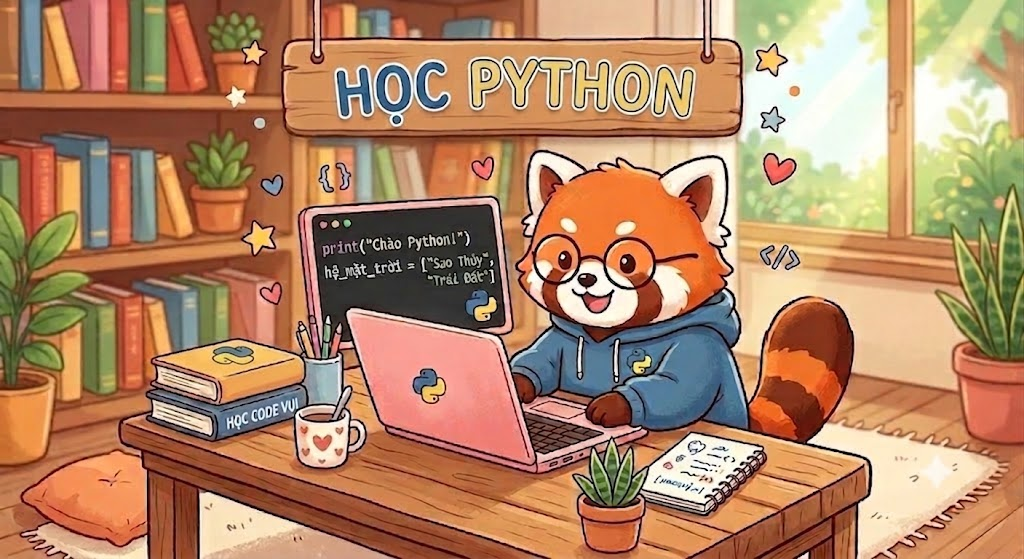
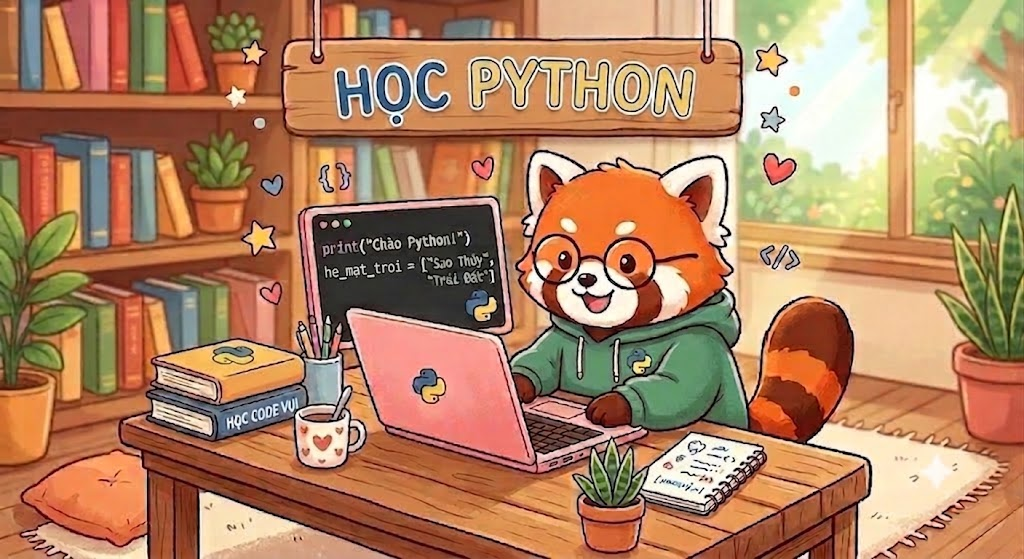
Improve game output scrolling

Changed region(s): [[0.5, 0.517, 0.75, 0.7907], [0.3125, 0.4562, 0.4062, 0.517], [0.6875, 0.8515, 0.7188, 0.8819]]

diff --git a/src/content/_template/game-template-type2.ts b/src/content/_template/game-template-type2.ts
@@ -119,9 +119,10 @@ const buildLayout = () => `
       font-size: 0.75rem; 
       color: #374151; 
       max-height: 150px; 
-      overflow-y: auto; 
-      white-space: pre-wrap; 
-      word-break: break-word;
+      overflow: auto;
+      white-space: pre;
+      word-break: normal;
+      overflow-wrap: normal;
       background: #f8fafc;
       border: 1px solid #e2e8f0;
     }
@@ -132,15 +133,15 @@ const buildLayout = () => `
     }
     
     /* Test Case Table */
-    .testcase-table { margin-top: 1rem; display: none; }
+    .testcase-table { margin-top: 1rem; display: none; max-width: 100%; overflow-x: auto; }
     .testcase-table.visible { display: block; }
     .testcase-table h3 { font-size: 1rem; font-weight: 600; margin-bottom: 0.75rem; color: #1f2937; }
-    .testcase-table table { width: 100%; border-collapse: collapse; font-size: 0.8rem; }
+    .testcase-table table { width: max-content; min-width: 100%; table-layout: auto; border-collapse: collapse; font-size: 0.8rem; }
     .testcase-table th, .testcase-table td { padding: 0.5rem 0.75rem; border: 1px solid #e2e8f0; text-align: left; }
     .testcase-table th { background: #f1f5f9; font-weight: 600; color: #475569; }
     .testcase-table .pass { color: #10b981; font-weight: 600; }
     .testcase-table .fail { color: #ef4444; font-weight: 600; }
-    .testcase-table .input, .testcase-table .output { font-family: 'JetBrains Mono', monospace; font-size: 0.75rem; white-space: pre-wrap; }
+    .testcase-table .input, .testcase-table .output { font-family: 'JetBrains Mono', monospace; font-size: 0.75rem; white-space: pre; word-break: normal; overflow-wrap: normal; }
     
     /* Floating Next Scene Button - Always visible at bottom right */
     .next-scene-btn { 

diff --git a/src/content/_template/game-template-type1.ts b/src/content/_template/game-template-type1.ts
@@ -117,9 +117,10 @@ const buildLayout = () => `
       font-size: 0.75rem; 
       color: #374151; 
       max-height: 150px; 
-      overflow-y: auto; 
-      white-space: pre-wrap; 
-      word-break: break-word;
+      overflow: auto;
+      white-space: pre;
+      word-break: normal;
+      overflow-wrap: normal;
       background: #f8fafc;
       border: 1px solid #e2e8f0;
     }
@@ -130,15 +131,15 @@ const buildLayout = () => `
     }
     
     /* Test Case Table */
-    .testcase-table { margin-top: 1rem; display: none; }
+    .testcase-table { margin-top: 1rem; display: none; max-width: 100%; overflow-x: auto; }
     .testcase-table.visible { display: block; }
     .testcase-table h3 { font-size: 1rem; font-weight: 600; margin-bottom: 0.75rem; color: #1f2937; }
-    .testcase-table table { width: 100%; border-collapse: collapse; font-size: 0.8rem; }
+    .testcase-table table { width: max-content; min-width: 100%; table-layout: auto; border-collapse: collapse; font-size: 0.8rem; }
     .testcase-table th, .testcase-table td { padding: 0.5rem 0.75rem; border: 1px solid #e2e8f0; text-align: left; }
     .testcase-table th { background: #f1f5f9; font-weight: 600; color: #475569; }
     .testcase-table .pass { color: #10b981; font-weight: 600; }
     .testcase-table .fail { color: #ef4444; font-weight: 600; }
-    .testcase-table .input, .testcase-table .output { font-family: 'JetBrains Mono', monospace; font-size: 0.75rem; }
+    .testcase-table .input, .testcase-table .output { font-family: 'JetBrains Mono', monospace; font-size: 0.75rem; white-space: pre; word-break: normal; overflow-wrap: normal; }
     
     /* Floating Next Scene Button - Always visible at bottom right */
     .next-scene-btn { 

diff --git a/src/lib/gameMetadata.ts b/src/lib/gameMetadata.ts
@@ -19,11 +19,18 @@ const normalizeTableText = (value: string) =>
     .replace(/\r/g, "\n");
 
 export const buildGameMetadataStyles = () => `
-  .game-description { color: #4b5563; line-height: 1.625; white-space: pre-line; margin: 0; }
-  .game-io-table-wrap { margin-top: 1rem; overflow-x: auto; border: 1px solid #dbeafe; border-radius: 0.75rem; background: #ffffff; }
-  .game-io-table { width: 100%; border-collapse: collapse; min-width: 320px; font-size: 0.875rem; }
+  .game-metadata .game-description,
+  .lesson-header .game-description {
+    margin: 0;
+    color: #334155;
+    font-size: 16px;
+    line-height: 1.65;
+    white-space: pre-line;
+  }
+  .game-io-table-wrap { max-width: 100%; margin-top: 1rem; overflow-x: auto; border: 1px solid #dbeafe; border-radius: 0.75rem; background: #ffffff; }
+  .game-io-table { width: max-content; min-width: 100%; border-collapse: collapse; font-size: 0.875rem; }
   .game-io-table th { background: #eff6ff; color: #1d4ed8; font-weight: 700; text-align: left; padding: 0.75rem; border-bottom: 1px solid #dbeafe; }
-  .game-io-table td { color: #1f2937; padding: 0.75rem; border-top: 1px solid #eef2ff; vertical-align: top; white-space: pre-wrap; word-break: break-word; }
+  .game-io-table td { color: #1f2937; padding: 0.75rem; border-top: 1px solid #eef2ff; vertical-align: top; white-space: pre; word-break: normal; overflow-wrap: normal; }
   .game-io-table td:first-child { border-right: 1px solid #eef2ff; }
 `;
 

diff --git a/src/lib/gameOutputDiff.ts b/src/lib/gameOutputDiff.ts
@@ -194,9 +194,40 @@ export const renderGameOutputDiff = (
 };
 
 const OUTPUT_DIFF_STYLES = `
+  .output-panel {
+    overflow: auto !important;
+    overflow-x: auto !important;
+    white-space: pre !important;
+    word-break: normal !important;
+    overflow-wrap: normal !important;
+  }
+  .output-panel > div {
+    white-space: pre !important;
+  }
+  .testcase-table {
+    max-width: 100% !important;
+    overflow-x: auto !important;
+  }
+  .testcase-table table {
+    width: max-content !important;
+    min-width: 100% !important;
+    table-layout: auto !important;
+  }
+  .testcase-table th,
+  .testcase-table td {
+    word-break: normal !important;
+    overflow-wrap: normal !important;
+  }
+  .testcase-table .input,
+  .testcase-table .output {
+    white-space: pre !important;
+    word-break: normal !important;
+    overflow-wrap: normal !important;
+  }
   .game-output-diff {
     border-radius: 2px;
     padding: 0 1px;
+    white-space: inherit;
     box-decoration-break: clone;
     -webkit-box-decoration-break: clone;
   }

diff --git a/src/lib/codingSet.ts b/src/lib/codingSet.ts
@@ -468,6 +468,8 @@ export default function initCodingSet(
 
       .coding-set-example {
         margin-top: 22px;
+        max-width: 100%;
+        overflow-x: auto;
       }
 
       .coding-set-example h3 {
@@ -477,7 +479,8 @@ export default function initCodingSet(
 
       .coding-set-example-table,
       .coding-set-result-table {
-        width: 100%;
+        width: max-content;
+        min-width: 100%;
         border-collapse: collapse;
       }
 
@@ -501,9 +504,13 @@ export default function initCodingSet(
 
       .coding-set-example-table code,
       .coding-set-result-table code {
+        display: block;
+        max-width: min(520px, 48vw);
+        overflow-x: auto;
         font-family: "JetBrains Mono", Consolas, monospace;
-        white-space: pre-wrap;
-        overflow-wrap: anywhere;
+        white-space: pre;
+        word-break: normal;
+        overflow-wrap: normal;
       }
 
       .coding-set-workspace {

diff --git a/src/content/_template/game-template.ts b/src/content/_template/game-template.ts
@@ -82,7 +82,7 @@ const buildLayout = () => `
     .lesson-side { display: flex; flex-direction: column; gap: 1rem; }
     .lesson-panel { background: white; border-radius: 0.75rem; padding: 1.5rem; box-shadow: 0 4px 6px -1px rgba(0, 0, 0, 0.1); }
     .code-panel { padding: 0; overflow: hidden; }
-    .output-panel { font-family: 'JetBrains Mono', 'Fira Code', Consolas, monospace; font-size: 0.875rem; color: #374151; max-height: 200px; overflow-y: auto; white-space: pre-wrap; word-break: break-word; }
+    .output-panel { font-family: 'JetBrains Mono', 'Fira Code', Consolas, monospace; font-size: 0.875rem; color: #374151; max-height: 200px; overflow: auto; white-space: pre; word-break: normal; overflow-wrap: normal; }
     .output-panel:empty::before { content: 'Output sẽ hiển thị ở đây...'; color: #9ca3af; font-style: italic; }
     @media (max-width: 1024px) { .lesson-layout { grid-template-columns: 1fr; } }
   </style>

diff --git a/src/app/page.tsx b/src/app/page.tsx
@@ -20,6 +20,7 @@ export default function Home() {
               alt="Học Python qua trò chơi"
               fill
               priority
+              unoptimized
               sizes="(max-width: 1024px) 100vw, 50vw"
               className="object-contain"
             />
